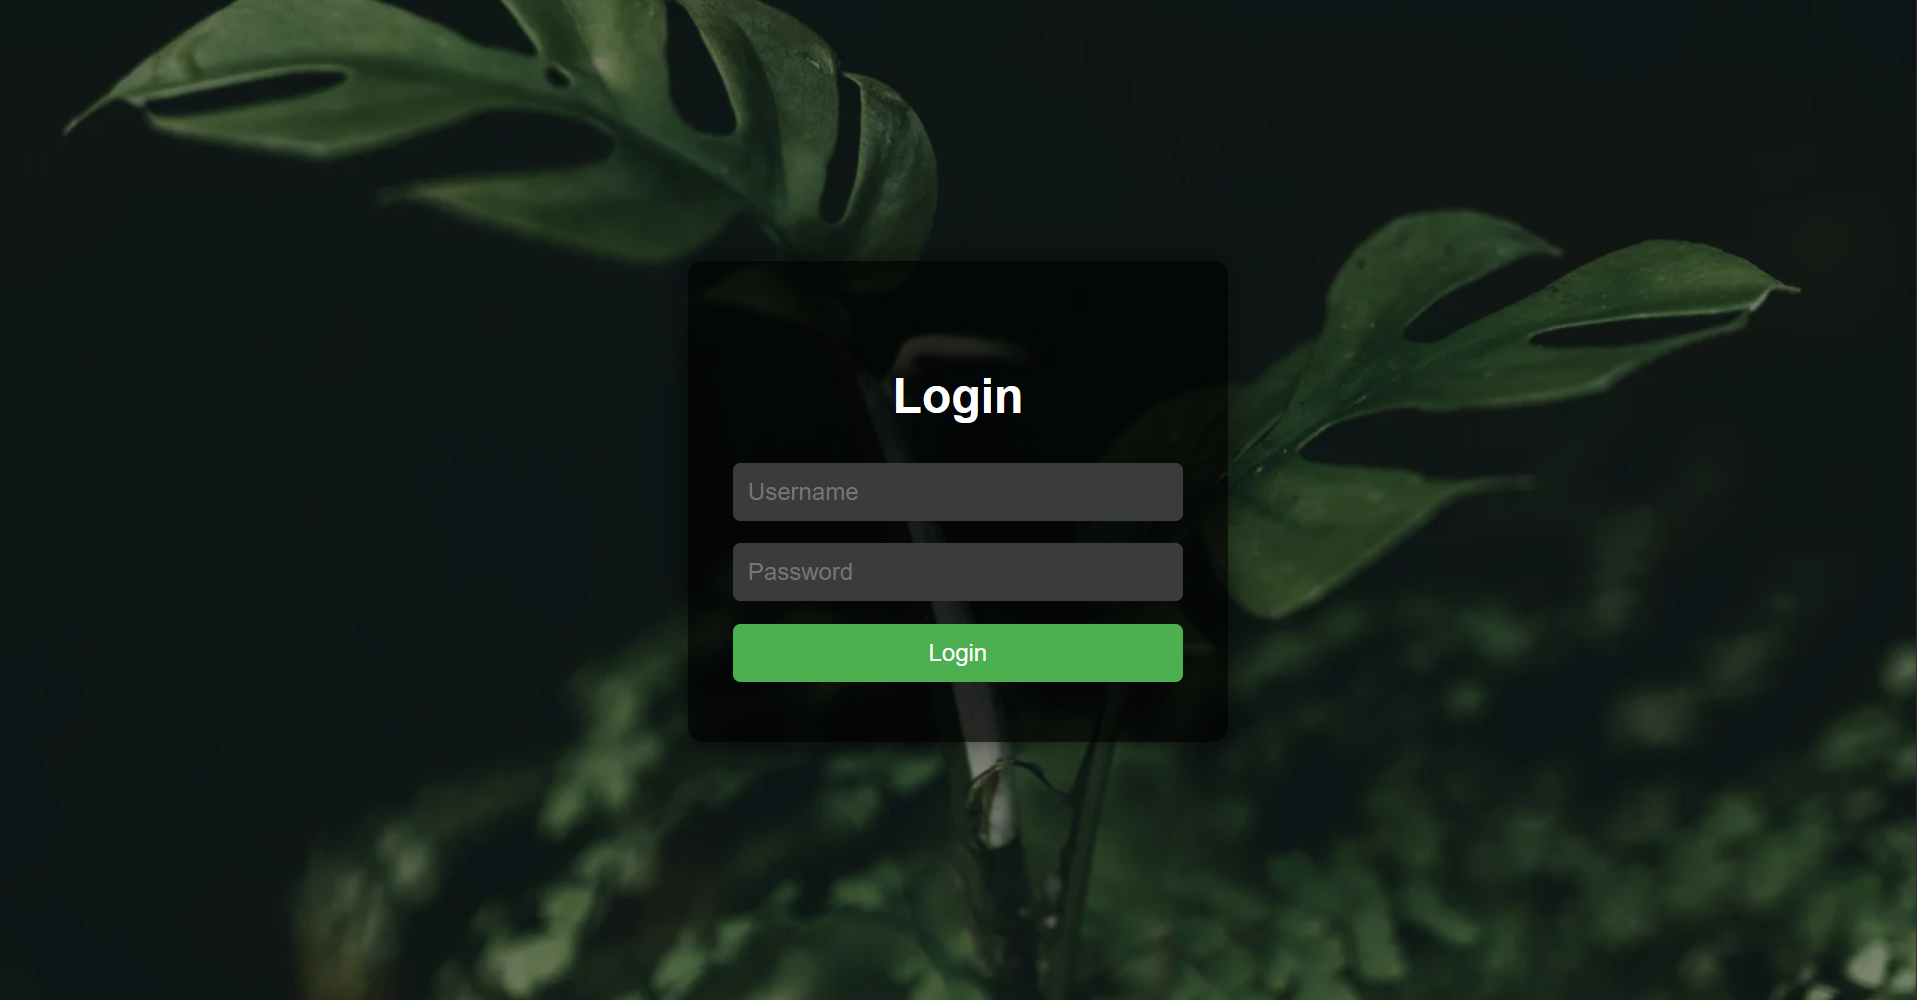
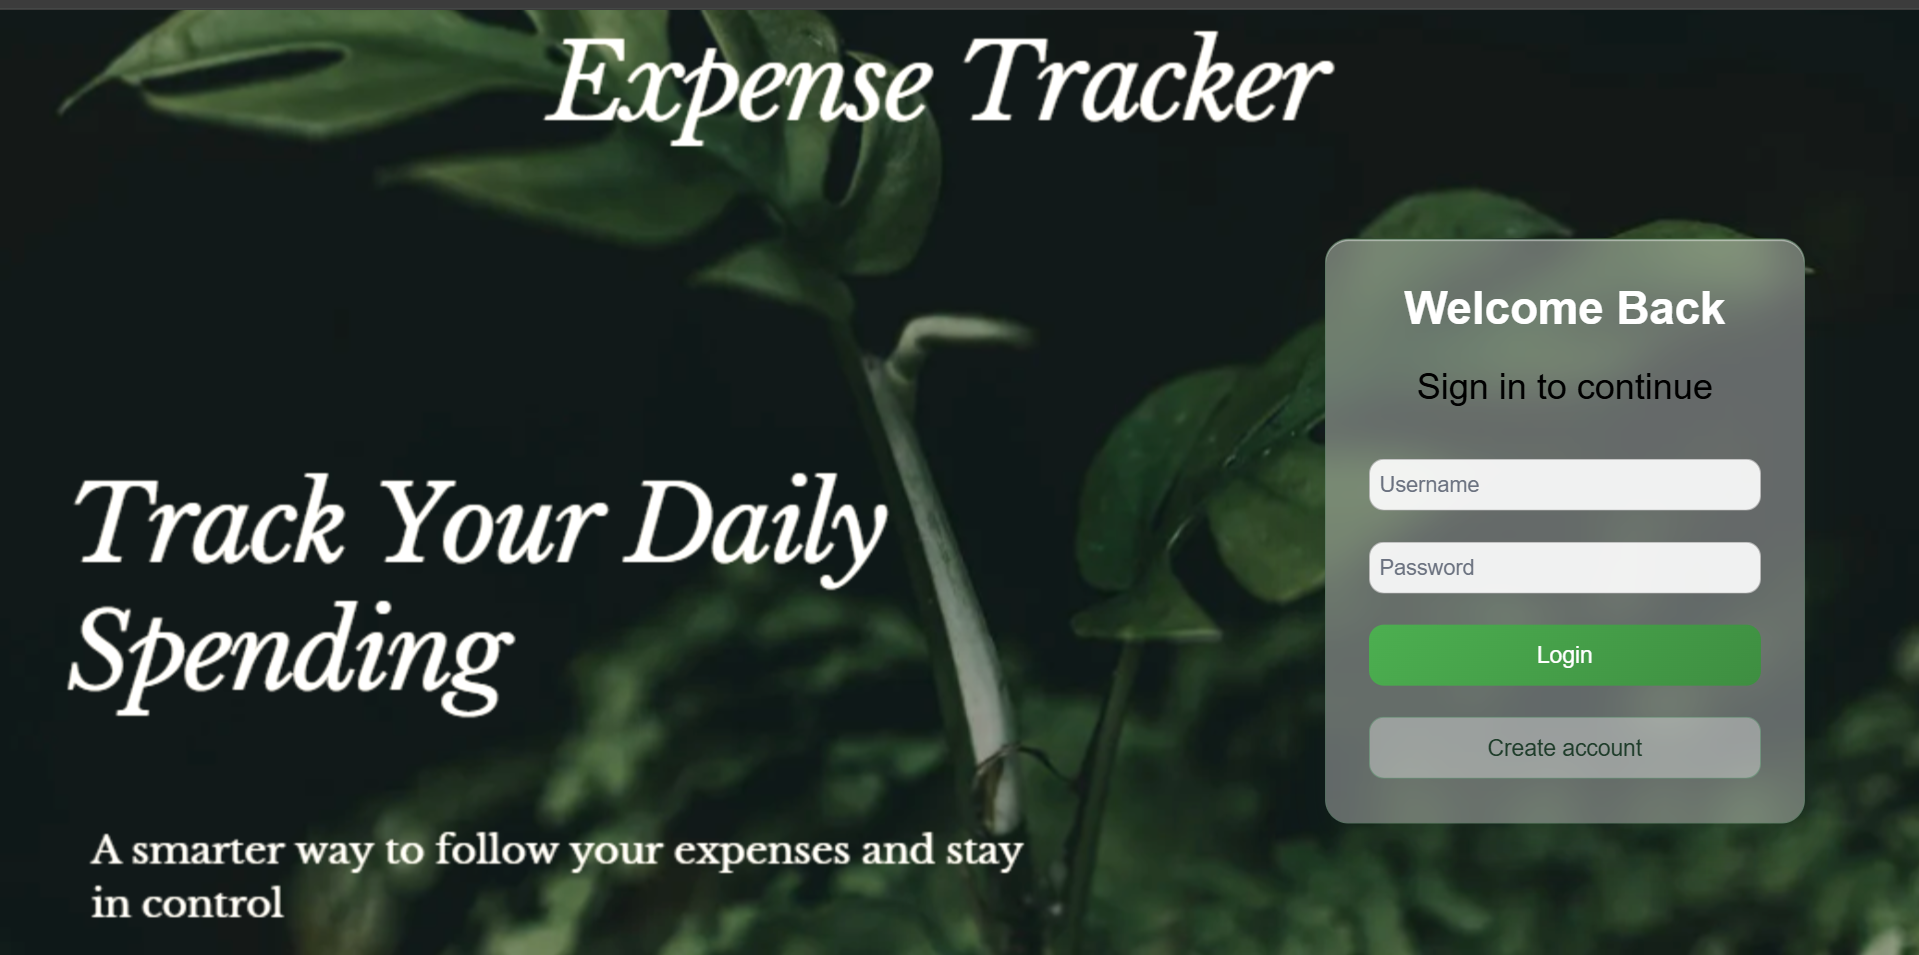
updated readme

diff --git a/expenseTrackerFrontend/README.md b/expenseTrackerFrontend/README.md
@@ -1,95 +1,81 @@
-# Expense Tracker - Frontend
+# Expense Tracker Frontend
 
-This is the **frontend** of the Expense Tracker application, built with **React**. It allows users to **view a landing page**, **login**, and **register**, while interacting with the backend API for expense management. The home page features a **full-screen background image** with **top-right Login/Register buttons** for easy navigation.
-
----
-
-## Features
-
-- Full-screen responsive landing page with background image  
-- Top-right **Login** and **Register** buttons  
-- Centered welcome text with short description  
-- Responsive layout for mobile and desktop  
-- Login and Register forms with state handling and API integration  
+A modern **React.js frontend** for an Expense Tracker application, featuring a **dashboard**, **expense management**, **categories**, and **authentication**. Built with **Vite**, **React Hooks**, and modern CSS design patterns, including **responsive cards** and an aesthetic **dashboard layout**.
 
 ---
 
-## Technologies Used
+## **Table of Contents**
 
-- React (with Hooks)  
-- React Router DOM (for navigation)  
-- CSS Flexbox and media queries for responsiveness  
-- Axios (via `API` service) for HTTP requests  
-- ES6+ JavaScript  
-
----
-
-## Project Structure
-
-The project folder is organized as follows:
-
-- **expense-tracker-frontend/**
-  - **public/**
-    - **assets/**
-      - `home.png` — Landing page background image
-  - **src/**
-    - **components/**
-      - `Home.jsx` — Landing page component
-      - `Login.jsx` — Login form component
-      - `Register.jsx` — Registration form component
-      - `Home.css` — Home page styles
-    - **services/**
-      - `api.js` — Axios instance for API calls
-    - `App.js` — Main app component
-  - `package.json`
-  - `README.md`
+- [Demo](#demo)  
+- [Features](#features)  
+- [Project Structure](#project-structure)  
+- [Technologies](#technologies)  
+- [Getting Started](#getting-started)  
+- [Available Scripts](#available-scripts)  
+- [License](#license)  
 
 ---
 
-## Installation
+## **Demo**
 
-1. Clone the repository:
+Screenshots of the application:
 
-
-2. Navigate to the frontend folder: cd expense-tracker-frontend
-
-
-3. Install dependencies:
-
-npm install
-
+![Dashboard](./output/dashboard.png)  
+![Expenses](./output/expenses.png)  
+![Add Expense](./output/addExpense.png)  
+![Categories](./output/categories.png)  
+![Login](./output/login.png)  
+![Register](./output/register.png)  
 
 ---
 
-## Running the App
+## **Features**
 
-Start the development server:
-
-npm start
-
-
-The app will run at `http://localhost:5173`. Make sure your backend API is running to enable login and registration functionality.
-
----
-
-## Usage
-
-- **Home Page:** Displays a full-screen background image with Login/Register buttons at the top-right.  
-- **Login Page:** Enter your username and password to log in. Token is stored in `localStorage`.  
-- **Register Page:** Create a new account with username, email, and password. Token is stored in `localStorage`.
+- **Dashboard**: Clean overview of expenses and categories.  
+- **Expense Management**:  
+  - Add, edit, delete expenses  
+  - Inline editing on expense cards  
+  - Category selection with searchable dropdown  
+- **Categories**: Manage expense categories.  
+- **Authentication**: Login, register, and logout.  
+- **Responsive Design**: Works on desktop and mobile devices.  
+- **Modern UI**: Cards, gradients, shadows, hover effects, and badges.  
 
 ---
 
-## Notes
+## **Project Structure**
 
-- Ensure the backend API endpoints match the paths used in `API.js` (`/login` and `/users/register`).  
-- Background images should be placed in `public/assets/` to load properly.  
-- The app is **fully responsive**, but you can customize styles in `Home.css` for branding.  
+```text
+expenseTrackerFrontend/
+├── public/                 # Static assets
+├── src/
+│   ├── assets/             # Images and logos
+│   ├── features/           # Feature modules
+│   │   ├── auth/           # Authentication pages and services
+│   │   ├── categories/     # Category pages and services
+│   │   ├── dashboard/      # Dashboard page
+│   │   └── expenses/       # Expenses page and services
+│   ├── layouts/            # Layouts (Auth & Dashboard)
+│   ├── routes/             # App routing
+│   ├── services/           # API/http client
+│   ├── App.jsx
+│   └── main.jsx
+├── .gitignore
+├── package.json
+└── vite.config.js
 
----
+## **Technologies**
 
-## License
+- **React.js** (Functional Components & Hooks)  
+- **Vite** (Fast frontend bundler)  
+- **React Router DOM** (Routing)  
+- **JavaScript (ES6+)**  
+- **CSS / Modern Responsive Design**  
+- **Axios / Fetch API** for HTTP requests  
 
-This project is **open-source** and free to use under the MIT License.
+
+
+
+
 
 

diff --git a/README.md b/README.md
@@ -1,7 +1,9 @@
-# 💸 Expense Tracker Backend
+# 💸 Expense Tracker 
 
-A **Spring Boot–based RESTful backend** for an Expense Tracker application.  
+A **Spring Boot–based RESTful** for an Expense Tracker application.  
 This project provides secure JWT authentication, expense tracking, and category management, following clean architecture and production-ready best practice.
+
+**Live Demo:** [https://expense-tracker-tau-ten-61.vercel.app](https://expense-tracker-tau-ten-61.vercel.app)
 
 ---
 
